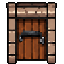
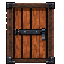
Replace stone door surround with approved timber frame across all animation frames

diff --git a/game.js b/game.js
@@ -3,7 +3,6 @@
 
   const TILE = 16;
   const HIGH_WALL_TOP_INSET = 11;
-  const DOOR_TINT = 0xb0a599;
   const DROP_PICKUP_RADIUS = 42;
   const CHEST_DROP_MIN_DISTANCE = 28;
   const CHEST_DROP_MAX_DISTANCE = 38;
@@ -431,7 +430,7 @@
         ...ASSETS.townNpc, ...ASSETS.guideNpc, ...ASSETS.orcIdle, ...ASSETS.orcRun,
         ...ASSETS.bossIdle, ...ASSETS.bossRun, ...ASSETS.chest, ...ASSETS.mimic, ...ASSETS.coin, ...ASSETS.items
       ];
-      [...new Set(allKeys)].forEach((key) => this.load.image(key, `${key}.png`));
+      [...new Set(allKeys)].forEach((key) => this.load.image(key, `${key}.png${ASSETS.door.includes(key) ? "?v=57" : ""}`));
     }
 
     create() {
@@ -557,7 +556,7 @@
         activeGate.gateLeft * TILE + gateWidth / 2,
         (activeGate.wallY + 1) * TILE,
         ASSETS.door[0]
-      ).setDisplaySize(gateWidth, 40).setTint(DOOR_TINT);
+      ).setDisplaySize(gateWidth, 40);
       this.door.setOrigin(0.5, 1).setDepth(this.door.y).refreshBody();
       this.door.body.setSize(gateWidth, TILE).setOffset(0, 24);
       this.addWallTorch(activeGate.gateLeft - 2, activeGate.wallY);
@@ -625,7 +624,7 @@
 
       const gateBaseline = (TOWN.wallY + 1) * TILE;
       this.add.image(TOWN.entranceX * TILE, gateBaseline, ASSETS.door[7])
-        .setDisplaySize(40, 40).setTint(DOOR_TINT).setOrigin(0.5, 1).setDepth(gateBaseline);
+        .setDisplaySize(40, 40).setOrigin(0.5, 1).setDepth(gateBaseline);
       this.addWallTorch(TOWN.gateLeft - 2, TOWN.wallY);
       this.addWallTorch(TOWN.gateRight + 2, TOWN.wallY);
 
@@ -684,7 +683,7 @@
         const x = (firstCell.x + 1) * TILE;
         const y = (firstCell.y + 1) * TILE;
         const sprite = this.props.create(x, y, ASSETS.door[0])
-          .setDisplaySize(40, 40).setTint(DOOR_TINT).setOrigin(0.5, 1)
+          .setDisplaySize(40, 40).setOrigin(0.5, 1)
           .setDepth(y + 1)
           .setData({ roomDoorId: definition.id, opened: false })
           .refreshBody();

diff --git a/tests/game-static.test.js b/tests/game-static.test.js
@@ -95,9 +95,9 @@ if (game.includes("startFollow(this.player, true") || game.includes("setRoundPix
 }
 if (!game.includes("fixedStep: false")) throw new Error("Fizika nav piesaistīta ekrāna kadru ritmam");
 if (!game.includes("roundPixels: false")) throw new Error("Globālā pikseļu noapaļošana nav izslēgta");
-if (!html.includes('<script src="map-rules.js?v=56"></script>')) throw new Error("HTML neielādē jaunākos kartes noteikumus");
+if (!html.includes('<script src="map-rules.js?v=57"></script>')) throw new Error("HTML neielādē jaunākos kartes noteikumus");
 if (!html.includes('<script src="progression.js?v=28"></script>')) throw new Error("HTML neielādē progresa sistēmu");
-if (!html.includes('<script src="game.js?v=56"></script>')) throw new Error("HTML neielādē jaunāko spēles kodu");
+if (!html.includes('<script src="game.js?v=57"></script>')) throw new Error("HTML neielādē jaunāko spēles kodu");
 if (html.includes('id="minimap-label"') || html.includes('KARTE · SIENAS')) {
   throw new Error("Minikartē joprojām redzams sienu teksts");
 }

diff --git a/index.html b/index.html
@@ -164,8 +164,8 @@
     </main>
 
     <script src="vendor/phaser.min.js"></script>
-    <script src="map-rules.js?v=56"></script>
+    <script src="map-rules.js?v=57"></script>
     <script src="progression.js?v=28"></script>
-    <script src="game.js?v=56"></script>
+    <script src="game.js?v=57"></script>
   </body>
 </html>
